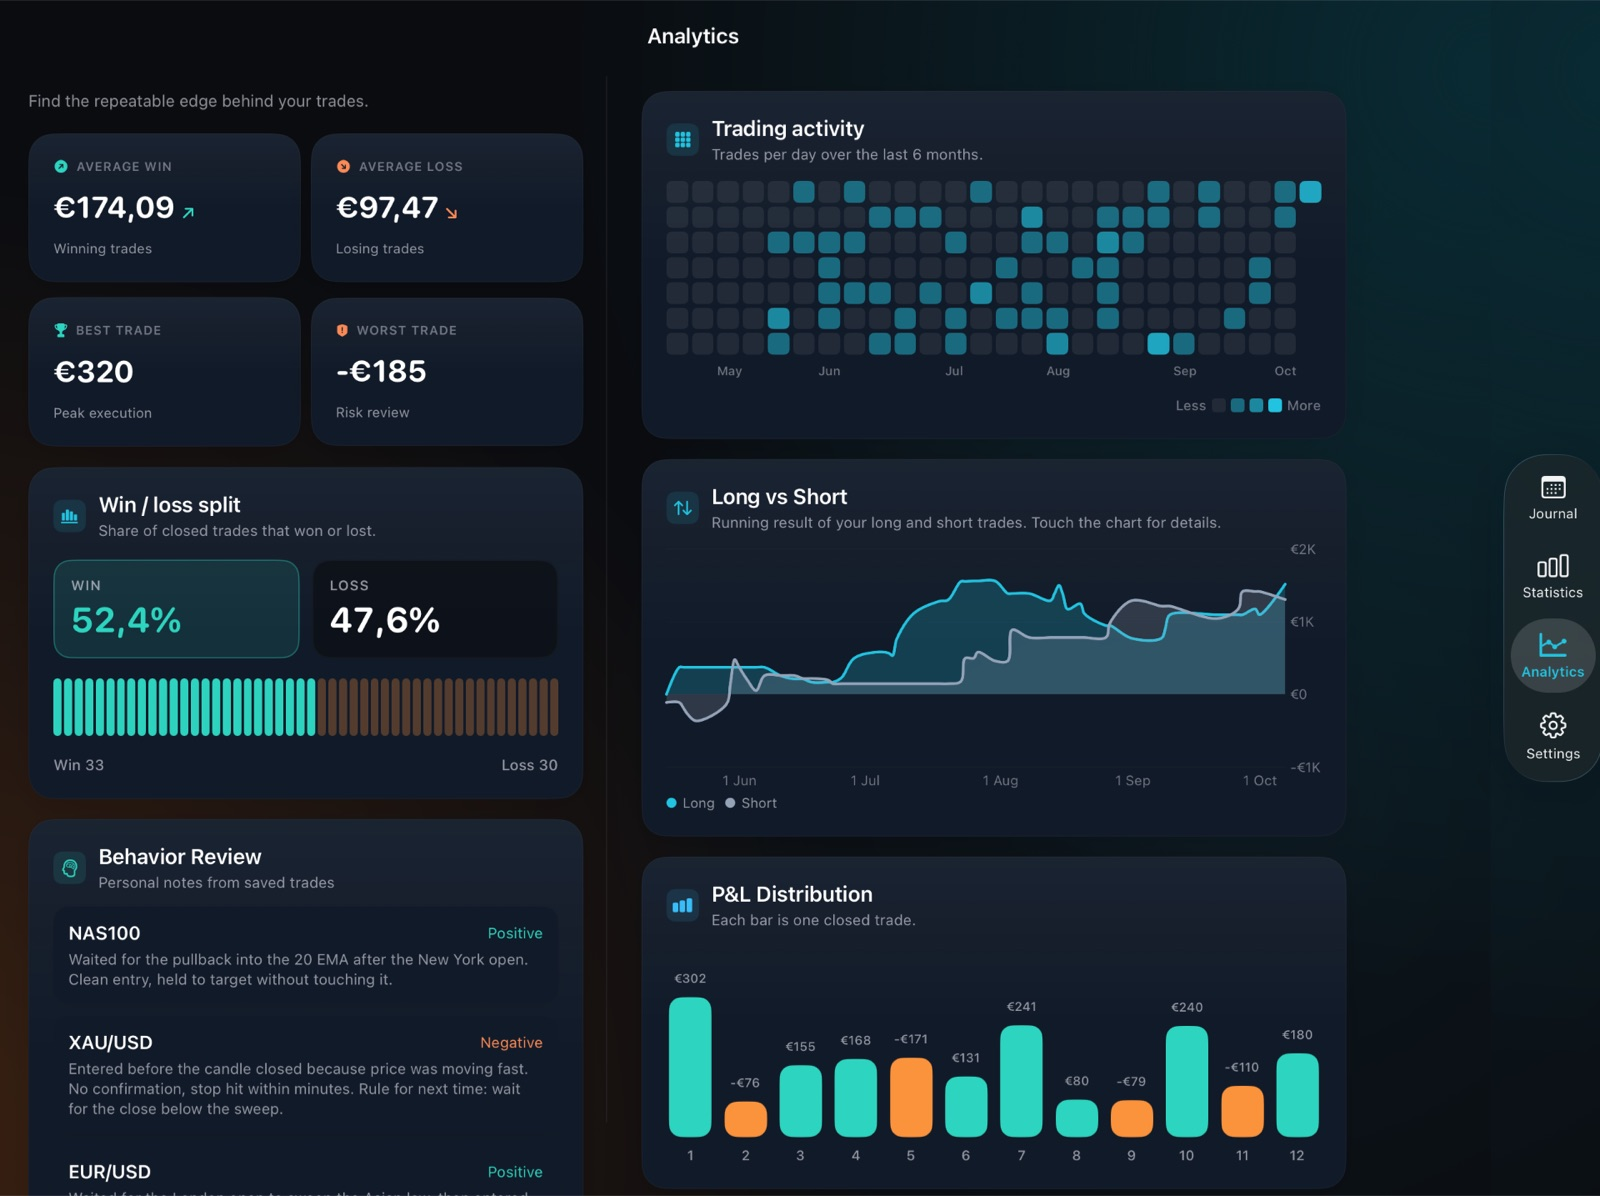
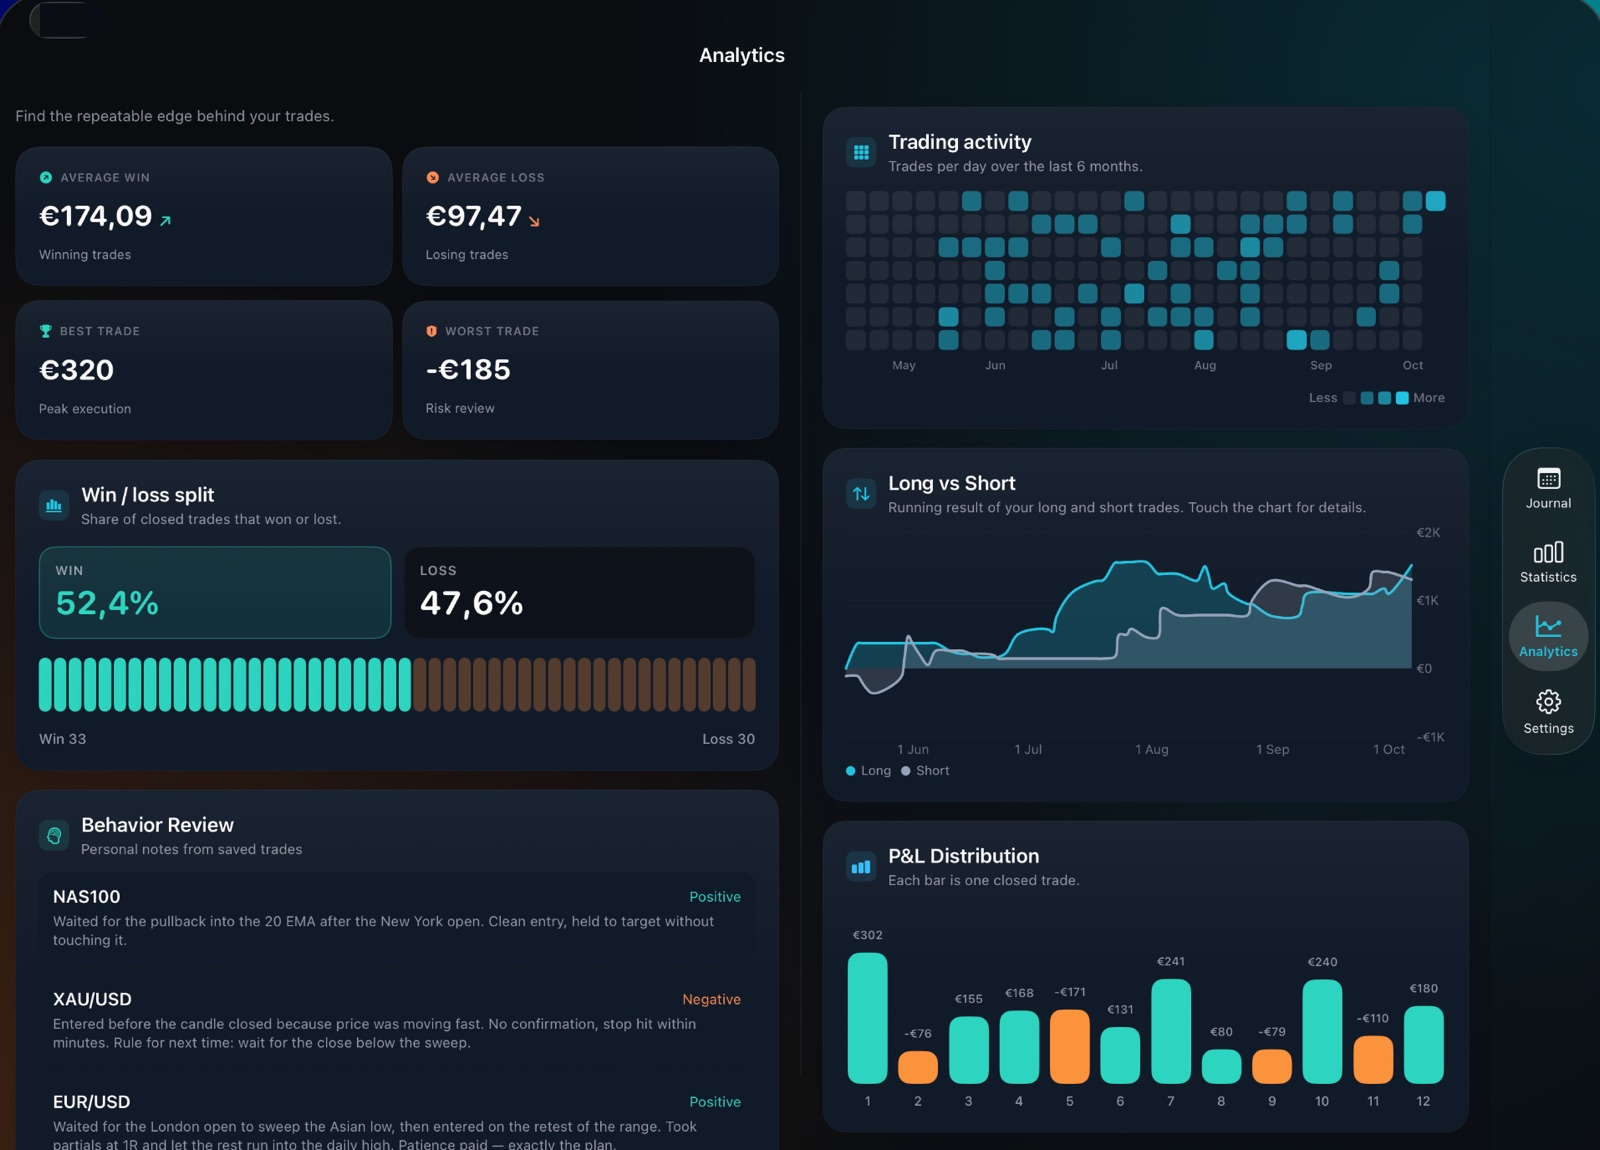
Center Owlog iPhone Duo mockups on the fold

diff --git a/src/pages/OwlogPage.tsx b/src/pages/OwlogPage.tsx
@@ -164,7 +164,7 @@ function Duo({ src, alt }: { src: string; alt: string }) {
   return (
     <div className="relative rounded-[2.4rem] bg-gradient-to-br from-zinc-600 via-zinc-900 to-zinc-700 p-[3px] shadow-[0_50px_140px_-30px_rgba(249,115,22,0.35)]">
       <div className="relative rounded-[2.25rem] bg-black p-3 md:p-4">
-        <div className="relative overflow-hidden rounded-[1.6rem] bg-black aspect-[1920/1435]">
+        <div className="relative overflow-hidden rounded-[1.6rem] bg-black aspect-[1914/1376]">
           <AnimatePresence mode="wait">
             <motion.img
               key={src}
